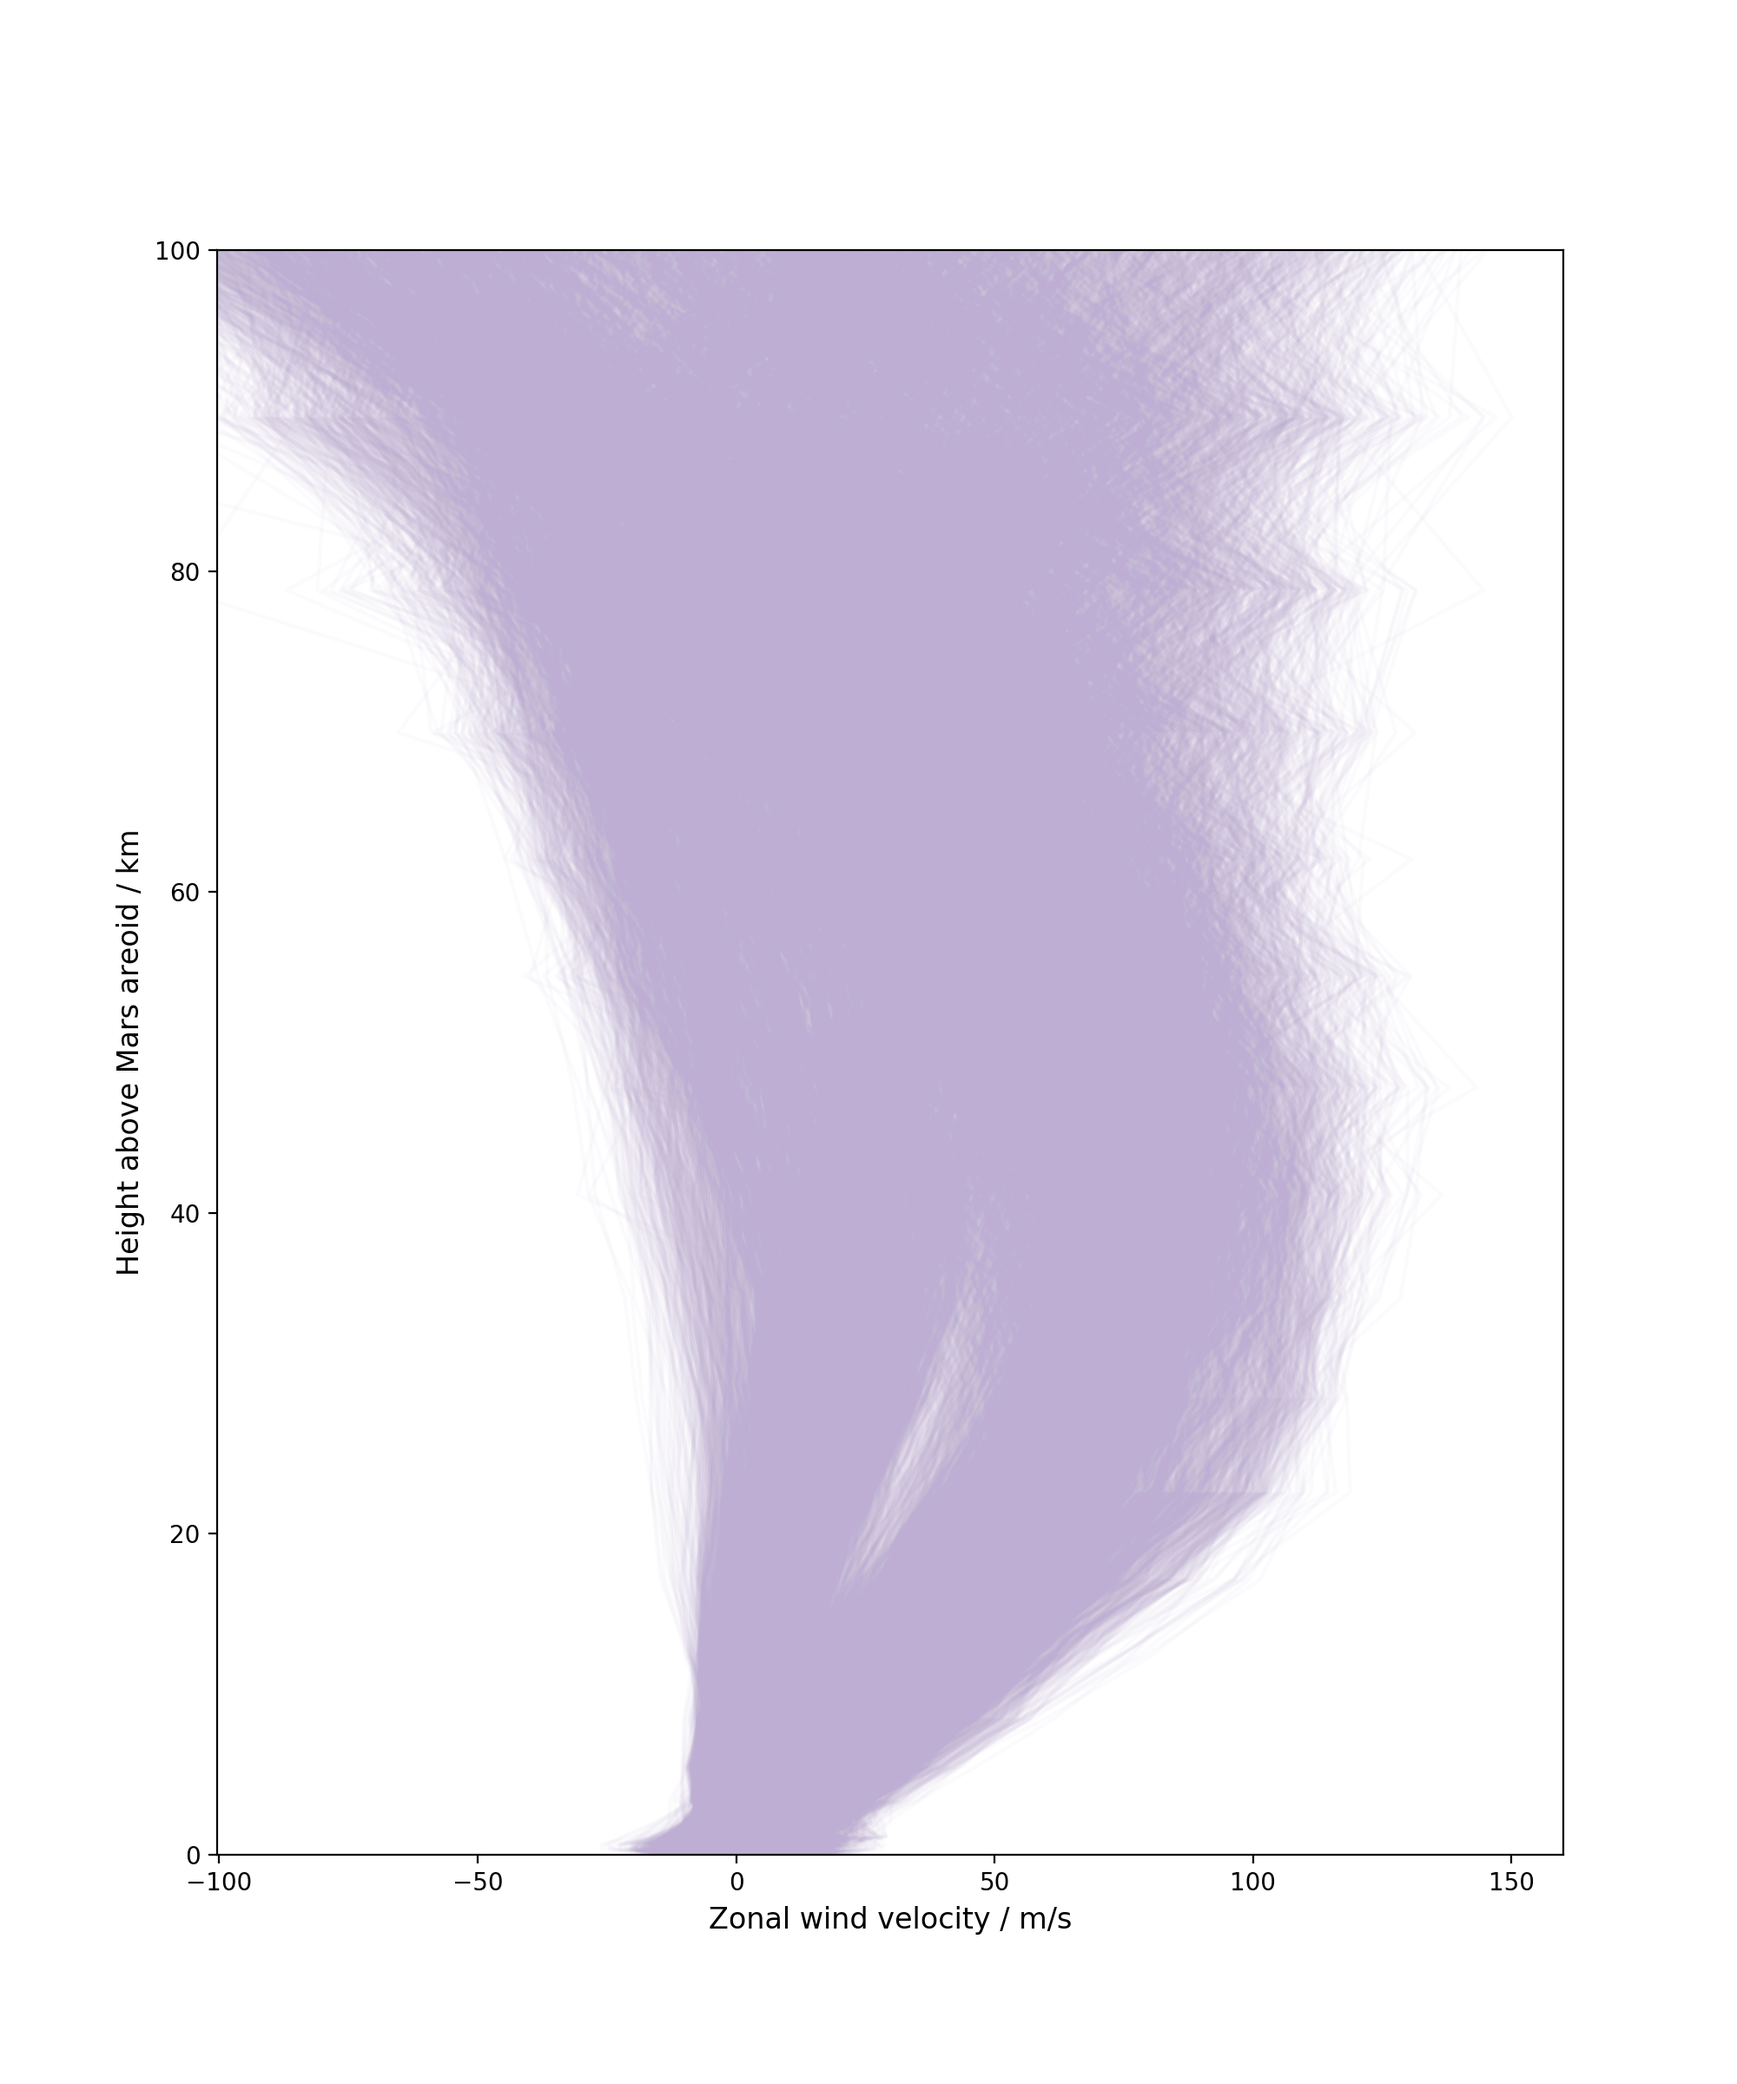
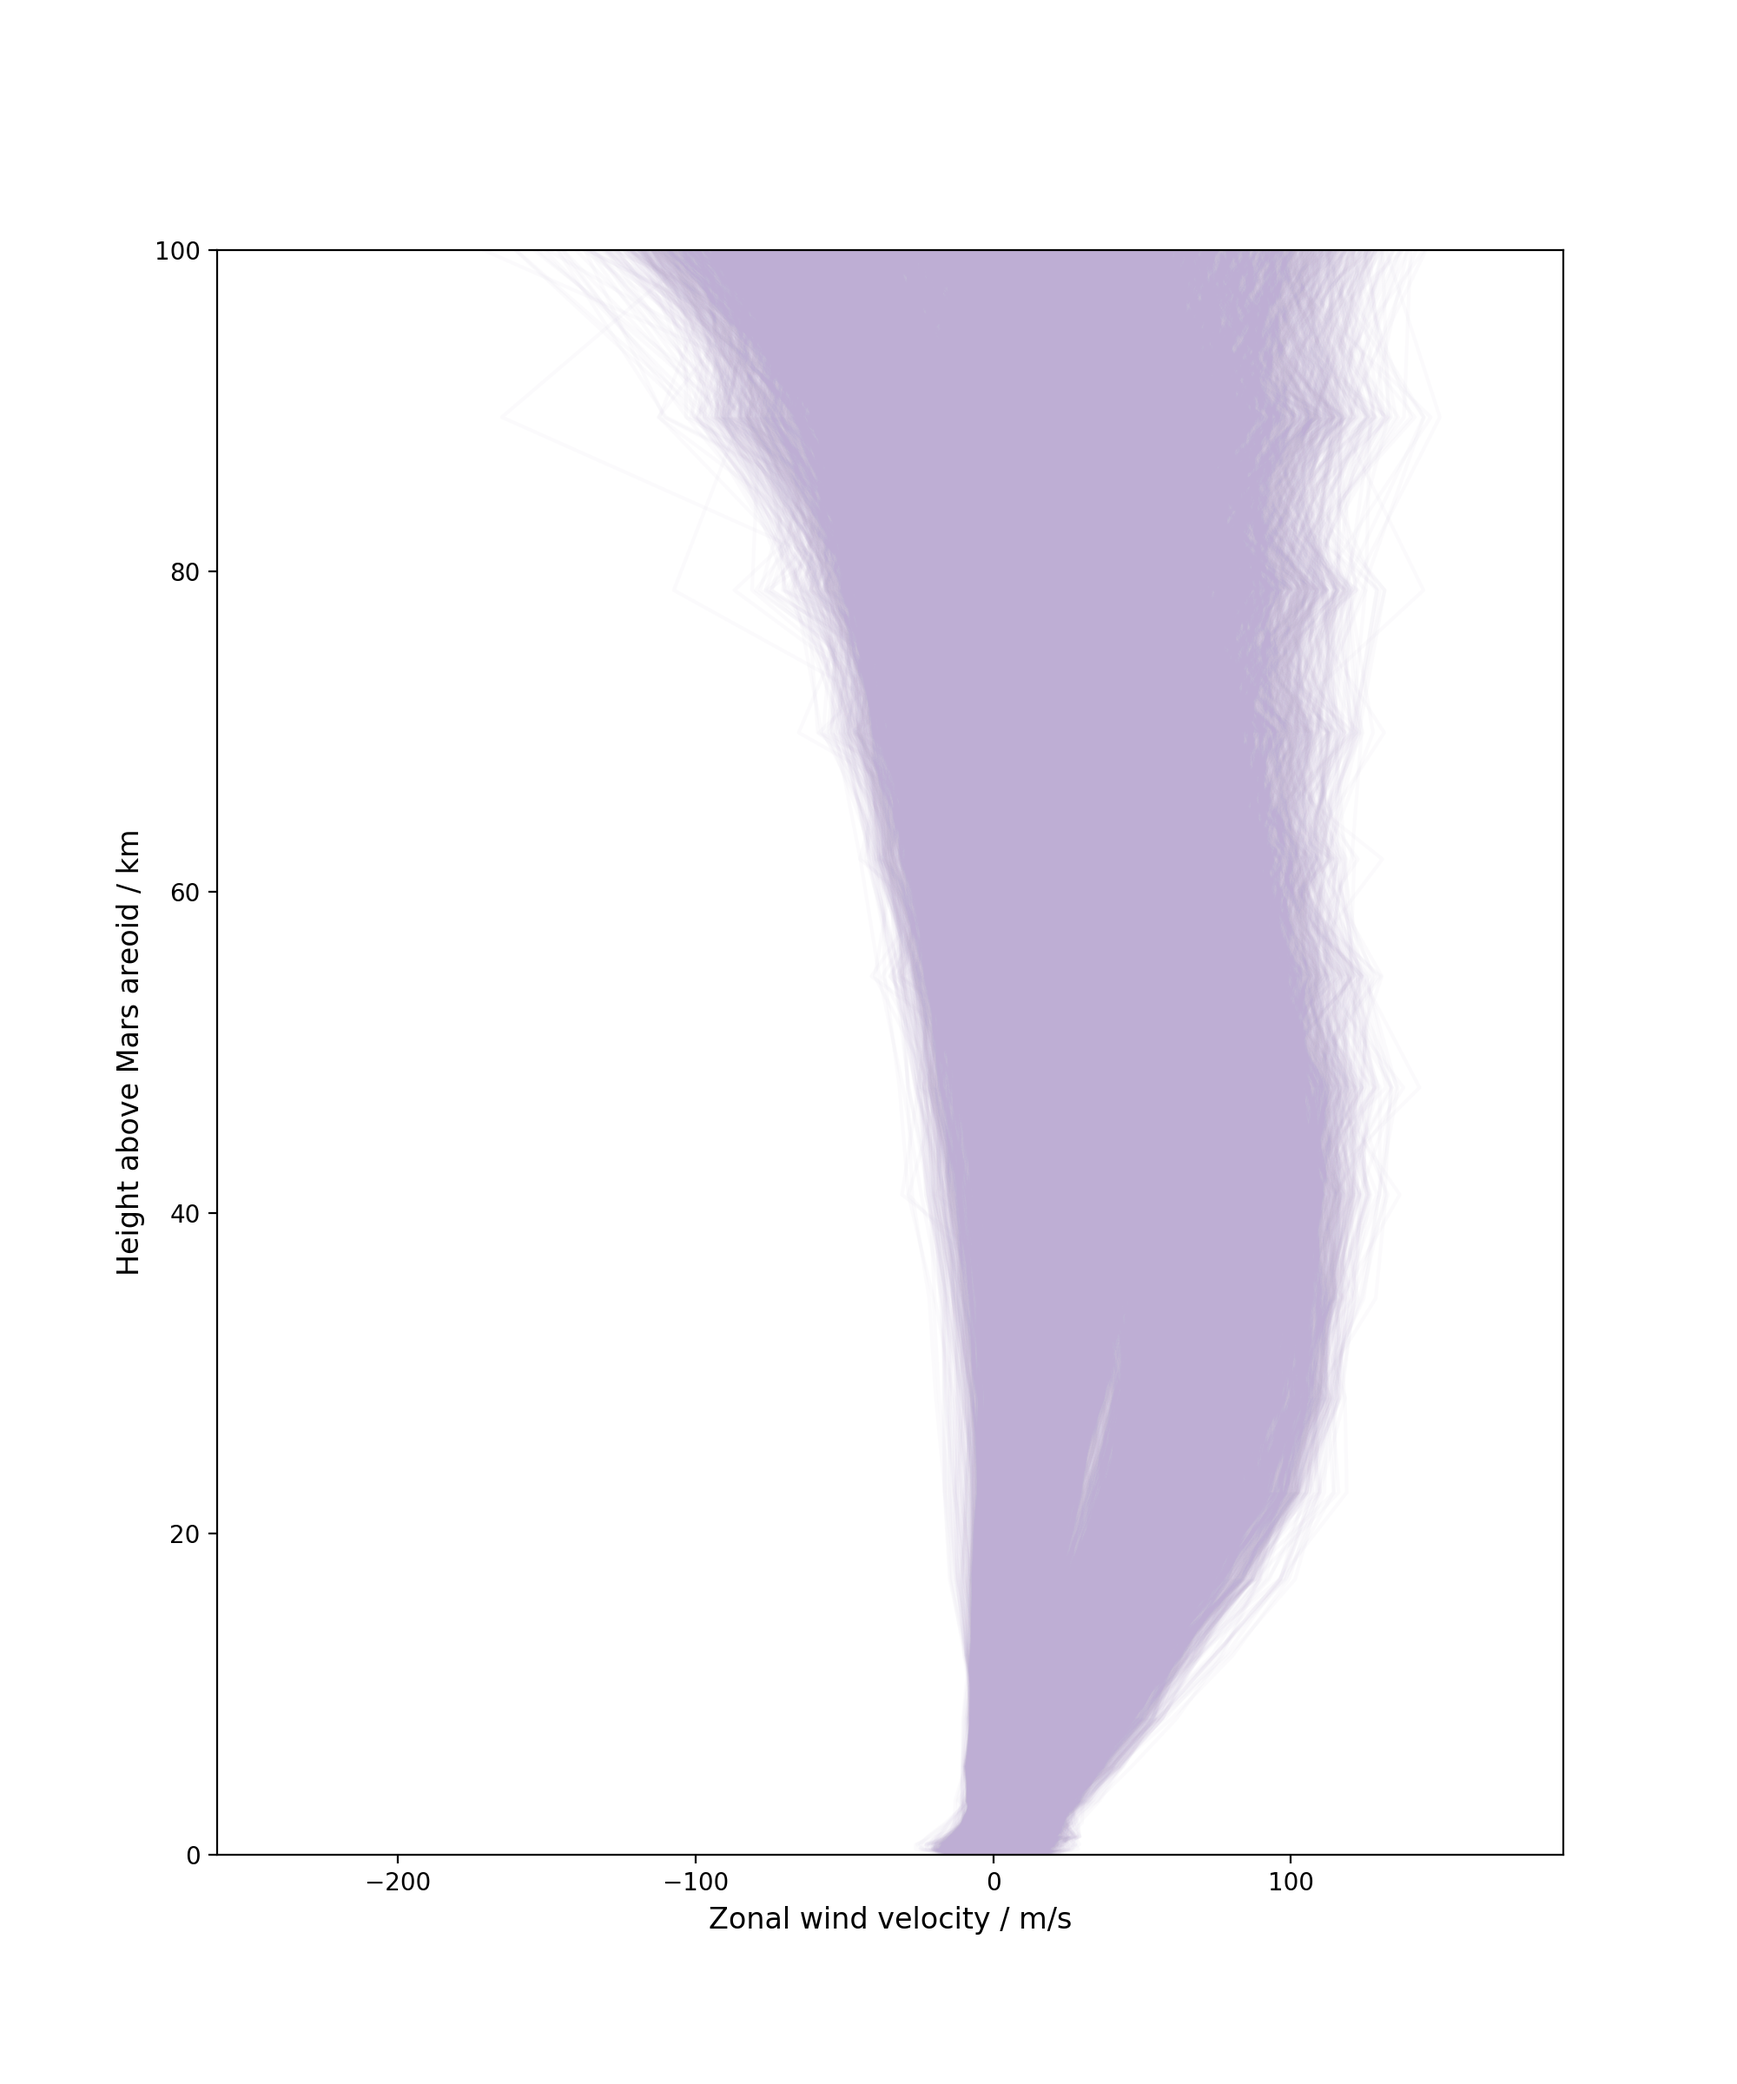
Updated

Changed region(s): [[0.124, 0.0938, 0.775, 0.9062], [0.713, 0.875, 0.744, 0.9062]]

diff --git a/MEG_diagfi.py b/MEG_diagfi.py
@@ -103,39 +103,46 @@ f,axr = plt.subplots(1, 1, sharex=True, sharey=True, figsize=(10,12), dpi=200)
 for j in xrange(1,Months):
  for k in xrange(ub[j].shape[0]):
   ax = axr.plot(ub[j][k,:,latt,lonn], y, alpha=0.05, linewidth=1.5, color=cmap(1))
-  
-plt.axis([np.min(ub[j][:,:,latt,lonn])-10, np.ceil(np.max(ub[j][:,:,latt,lonn])/10.)*10., 0, 100])
+
+axr.set_ylim([0, 100]) 
+#plt.axis([np.min(ub[j][:,:,latt,lonn])-10, np.ceil(np.max(ub[j][:,:,latt,lonn])/10.)*10., 0, 100])
 axr.set_xlabel('Zonal wind velocity / m/s', fontsize=12)
 axr.set_ylabel('Height above Mars areoid / km', fontsize=12)
 plt.savefig('MGCM_%s_%i-%i_uprof.png' % (rundirb[-4:], lat[latt], lon[lonn]))
+plt.close('all')
 
 f,axr = plt.subplots(1, 1, sharex=True, sharey=True, figsize=(10,12), dpi=200)
 for j in xrange(1,Months):
  for k in xrange(vb[j].shape[0]):
   ax = axr.plot(vb[j][k,:,latt,lonn], y, alpha=0.05, linewidth=1.5, color=cmap(1))
-  
-plt.axis([np.min(vb[j][:,:,latt,lonn])-10, np.ceil(np.max(vb[j][:,:,latt,lonn])/10.)*10., 0, 100])
+
+axr.set_ylim([0, 100])
+#plt.axis([np.min(vb[j][:,:,latt,lonn])-10, np.ceil(np.max(vb[j][:,:,latt,lonn])/10.)*10., 0, 100])
 axr.set_xlabel('Meridional wind velocity / m/s', fontsize=12)
 axr.set_ylabel('Height above Mars areoid / km', fontsize=12)
 plt.savefig('MGCM_%s_%i-%i_vprof.png' % (rundirb[-4:], lat[latt], lon[lonn]))
+plt.close('all')
 
 f,axr = plt.subplots(1, 1, sharex=True, sharey=True, figsize=(10,12), dpi=200)
 for j in xrange(1,Months):
  for k in xrange(presb[j].shape[0]):
   ax = axr.plot(presb[j][k,:,latt,lonn], y, alpha=0.05, linewidth=1.5, color=cmap(1))
   
-plt.axis([0, np.ceil(np.max(presb[j][:,:,latt,lonn])/10.)*10., 0, 100])
+axr.set_ylim([0, 100])
+#plt.axis([0, np.ceil(np.max(presb[j][:,:,latt,lonn])/10.)*10., 0, 100])
 axr.set_xlabel('Pressure / Pa', fontsize=12)
 axr.set_ylabel('Height above Mars areoid / km', fontsize=12)
 plt.savefig('MGCM_%s_%i-%i_presprof.png' % (rundirb[-4:], lat[latt], lon[lonn]))
+plt.close('all')
 
 f,axr = plt.subplots(1, 1, sharex=True, sharey=True, figsize=(10,12), dpi=200)
 for j in xrange(1,Months):
  for k in xrange(rhob[j].shape[0]):
   ax = axr.plot(rhob[j][k,:,latt,lonn], y, alpha=0.05, linewidth=1.5, color=cmap(1))
   
-plt.axis([0, np.max(rhob[j][:,:,latt,lonn])+0.005, 0, 100])
+axr.set_ylim([0, 100])
 axr.set_xlabel('Density / kg/$m^3$', fontsize=12)
 axr.set_ylabel('Height above Mars areoid / km', fontsize=12)
 plt.savefig('MGCM_%s_%i-%i_densprof.png' % (rundirb[-4:], lat[latt], lon[lonn]))
+plt.close('all')
 
